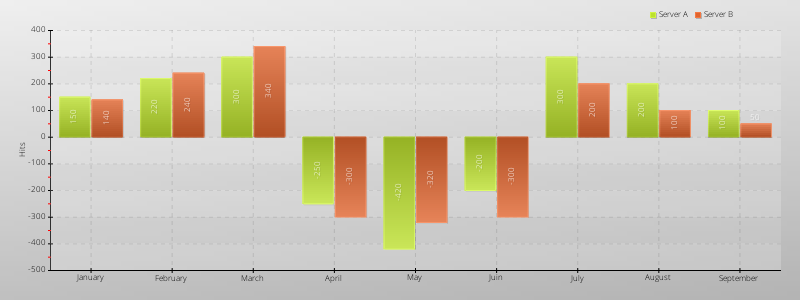
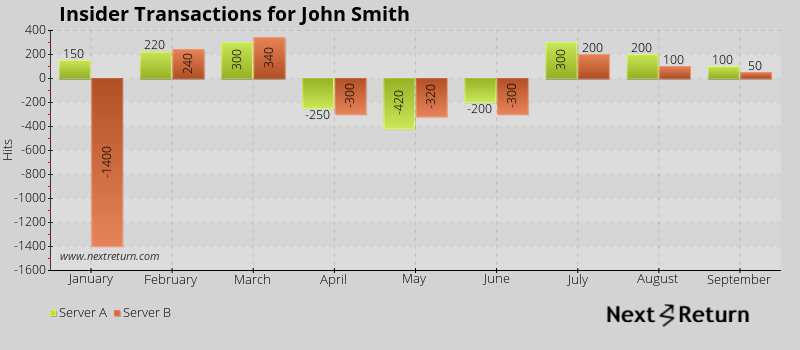
fixing chart git

diff --git a/src/t01_barchart.php b/src/t01_barchart.php
@@ -7,28 +7,42 @@ use Webklex\pChart\pImage;
 
 $MyData = new pData();
 $MyData->addPoints(array(150,220,300,-250,-420,-200,300,200,100),"Server A");
-$MyData->addPoints(array(140,240,340,-300,-320,-300,200,100,50),"Server B");
+$MyData->addPoints(array(-1400,240,340,-300,-320,-300,200,100,50),"Server B");
 $MyData->setAxisName(0,"Hits");
 
-$MyData->addPoints(array("January","February","March","April","May","Juin","July","August","September"),"Months");
+$MyData->addPoints(array("January","February","March","April","May","June","July","August","September"),"Months");
 $MyData->setSerieDescription("Months","Month");
 $MyData->setAbscissa("Months");
 
-$myPicture = new pImage(800,300,$MyData);
+$myPicture = new pImage(800,350,$MyData);
+$myPicture = new pImage(800,350,$MyData);
 
-$myPicture->drawGradientArea(0,0,800,300,DIRECTION_VERTICAL,array("StartR"=>240,"StartG"=>240,"StartB"=>240,"EndR"=>180,"EndG"=>180,"EndB"=>180,"Alpha"=>100));
-$myPicture->drawGradientArea(0,0,800,300,DIRECTION_HORIZONTAL,array("StartR"=>240,"StartG"=>240,"StartB"=>240,"EndR"=>180,"EndG"=>180,"EndB"=>180,"Alpha"=>20));
+// $myPicture->drawGradientArea(0,0,800,350,DIRECTION_HORIZONTAL,array("StartR"=>240,"StartG"=>240,"StartB"=>240,"EndR"=>240,"EndG"=>240,"EndB"=>240,"Alpha"=>20));
+// $myPicture->drawGradientArea(0,0,800,350,DIRECTION_VERTICAL,array("StartR"=>240,"StartG"=>240,"StartB"=>240,"EndR"=>180,"EndG"=>180,"EndB"=>180,"Alpha"=>100));
+// $myPicture->drawGradientArea(0,0,800,350,DIRECTION_HORIZONTAL,array("StartR"=>240,"StartG"=>240,"StartB"=>240,"EndR"=>180,"EndG"=>180,"EndB"=>180,"Alpha"=>20));
+$myPicture->drawGradientArea(0,0,800,350,DIRECTION_VERTICAL,array("StartR"=>211,"StartG"=>211,"StartB"=>211,"EndR"=>211,"EndG"=>211,"EndB"=>211,"Alpha"=>100));
+// $myPicture->drawGradientArea(0,0,800,350,DIRECTION_HORIZONTAL,array("StartR"=>240,"StartG"=>240,"StartB"=>240,"EndR"=>240,"EndG"=>240,"EndB"=>240,"Alpha"=>20));
 
-$myPicture->setFontProperties(array("FontName"=>"src/font/Open_Sans/OpenSans-Light.ttf","FontSize"=>6));
+$myPicture->setFontProperties(array("FontName"=>"src/font/Open_Sans/OpenSans-Light.ttf","FontSize"=>10));
+// $myPicture->drawText(35,25,"Insider Transactions for John Smith",array("R"=>255,"G"=>255,"B"=>255));
+$TextSettings = array("R"=>0,"G"=>0,"B"=>0,"FontSize"=>15,"FontName"=>"src/font/Open_Sans/OpenSans-Bold.ttf","Align"=>TEXT_ALIGN_BOTTOMMIDDLE);
+$myPicture->drawText(235,25,"Insider Transactions for John Smith",$TextSettings);
+
+// add watermark
+$myPicture->drawFromPNG(600,300,"src/watermark/next-return_logo_black-155x31.png");
+
+// add link
+$TextSettings1 = array("R"=>0,"G"=>0,"B"=>0,"FontSize"=>8,"FontName"=>"src/font/Open_Sans/OpenSans-Italic.ttf","Align"=>TEXT_ALIGN_BOTTOMMIDDLE);
+$myPicture->drawText(110,260,"www.nextreturn.com",$TextSettings1);
 
 $myPicture->setGraphArea(50,30,780,270);
 $myPicture->drawScale(array("CycleBackground"=>TRUE,"DrawSubTicks"=>TRUE,"GridR"=>0,"GridG"=>0,"GridB"=>0,"GridAlpha"=>10));
 
 $myPicture->setShadow(TRUE,array("X"=>1,"Y"=>1,"R"=>0,"G"=>0,"B"=>0,"Alpha"=>10));
 
-$settings = array("Gradient"=>TRUE, "DisplayPos"=>LABEL_POS_INSIDE, "DisplayValues"=>TRUE, "DisplayR"=>255, "DisplayG"=>255, "DisplayB"=>255, "DisplayShadow"=>TRUE, "Surrounding"=>30);
+$settings = array("Gradient"=>TRUE, "DisplayPos"=>LABEL_POS_INSIDE, "DisplayValues"=>TRUE, "DisplayR"=>0, "DisplayG"=>0, "DisplayB"=>0, "DisplayShadow"=>TRUE, "Surrounding"=>30);
 $myPicture->drawBarChart($settings);
 
-$myPicture->drawLegend(650,12,array("Style"=>LEGEND_NOBORDER,"Mode"=>LEGEND_HORIZONTAL));
+$myPicture->drawLegend(50,310,array("Style"=>LEGEND_NOBORDER,"Mode"=>LEGEND_HORIZONTAL));
 
 $myPicture->Render("./output/drawbarchart3.png");
